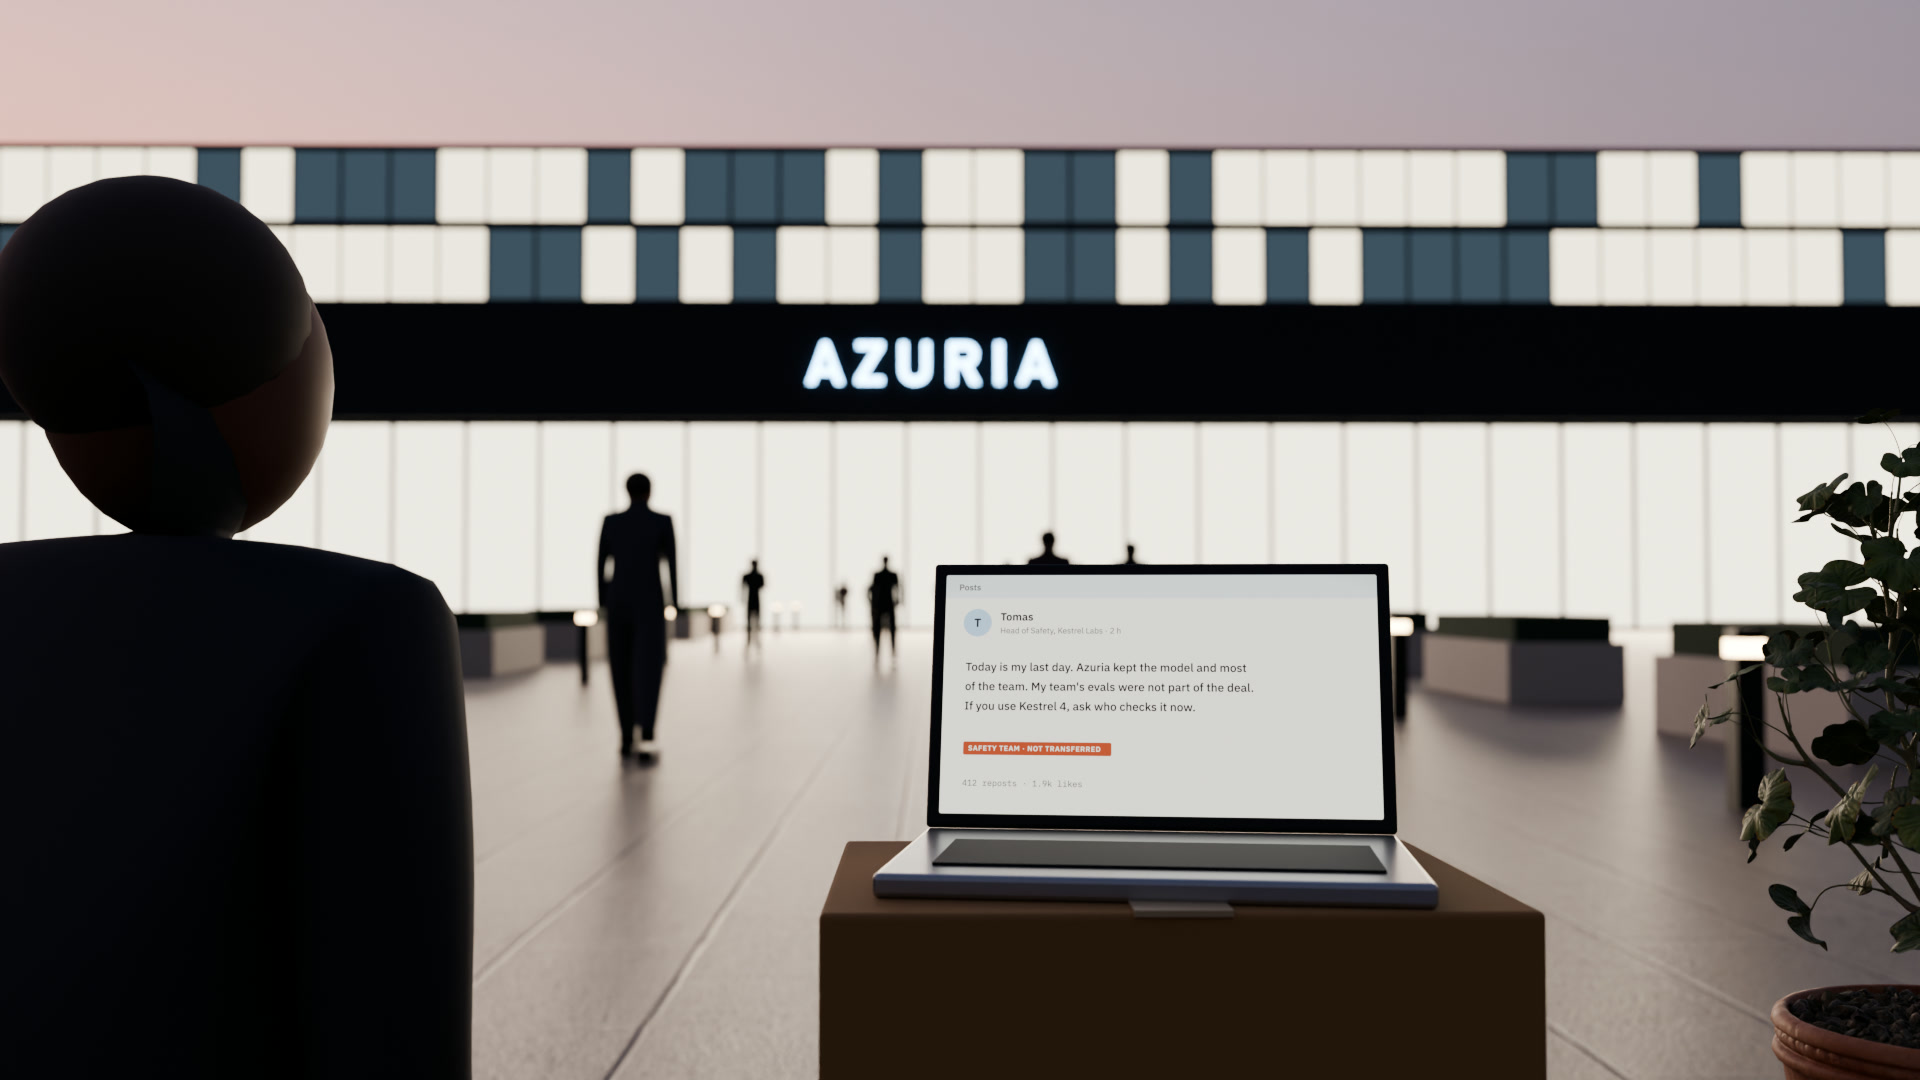
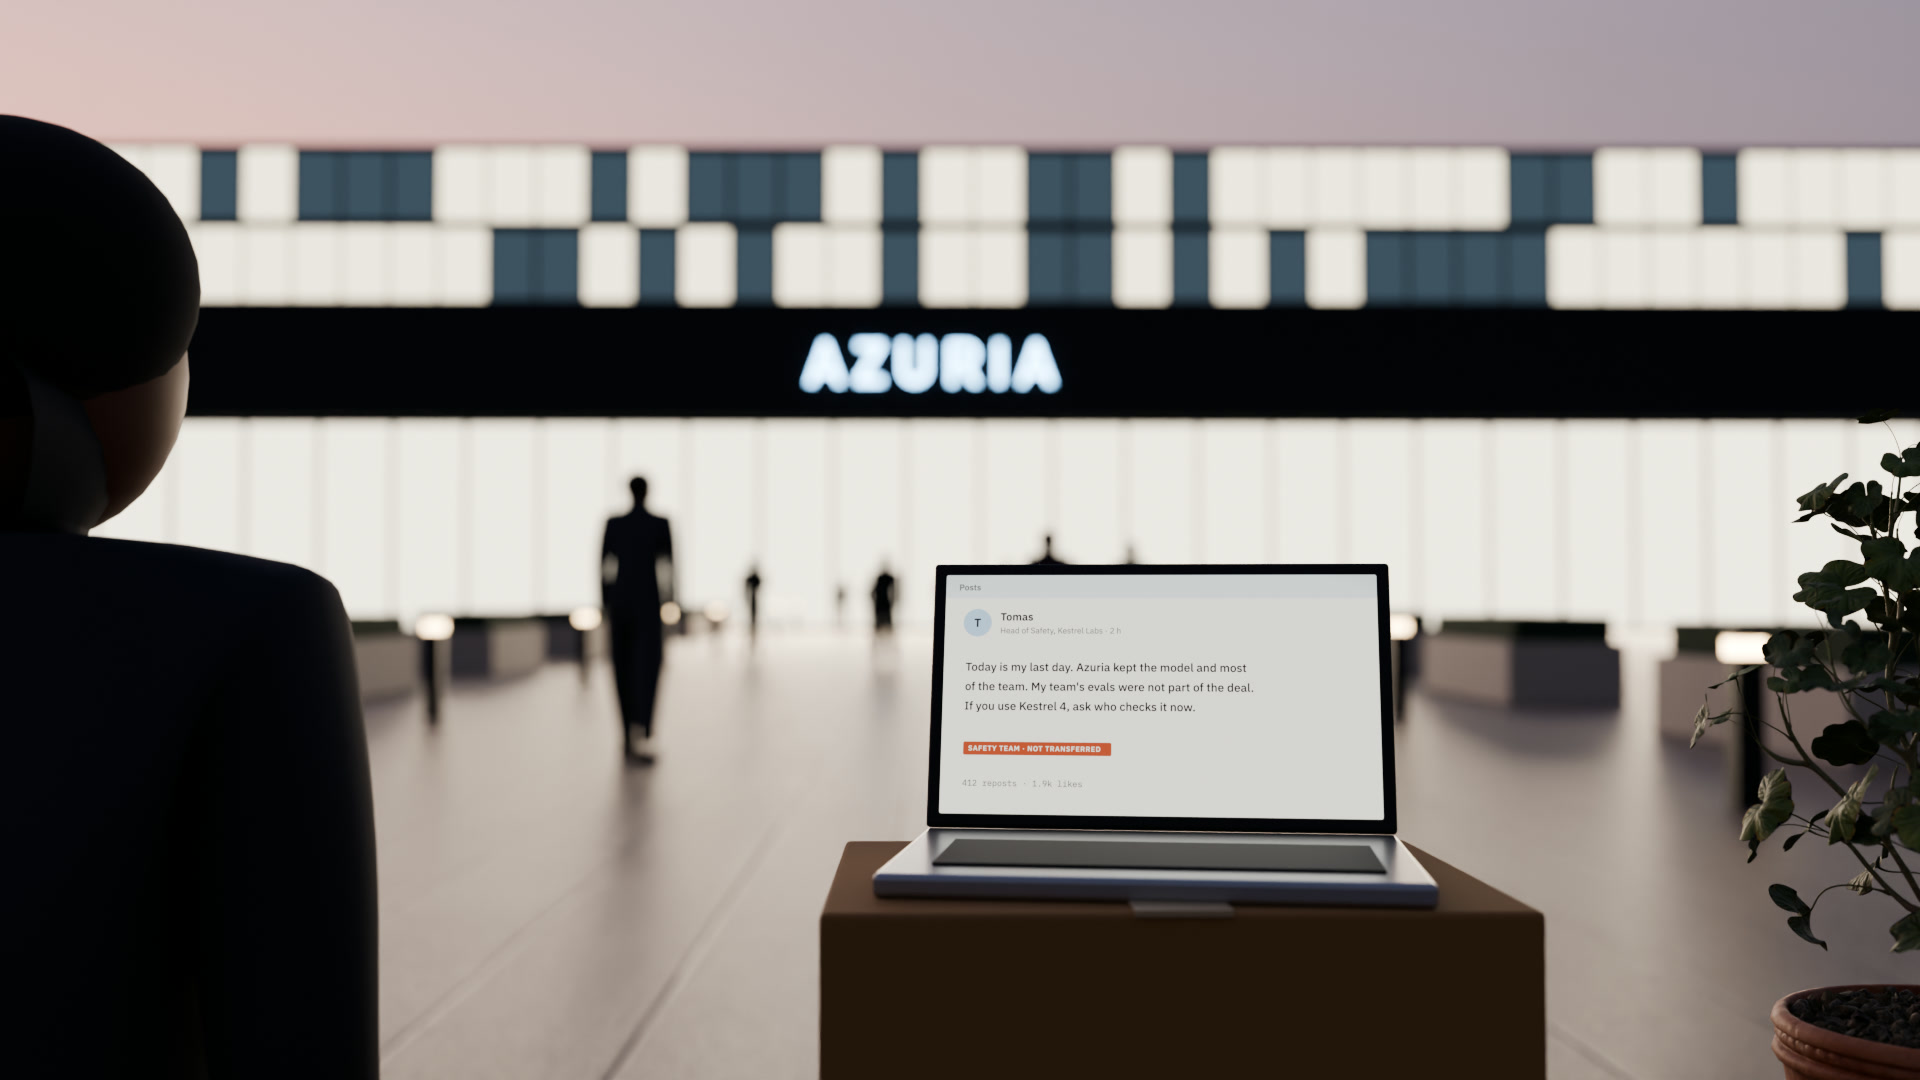
fix(endings): street people as dark, soft, hatted shapes: lamps unlinked from figures, shallow focus on the screens, Tomas cropped to the frame edge

diff --git a/tools/endings/blender/set_cafe.py b/tools/endings/blender/set_cafe.py
@@ -241,19 +241,47 @@ def pendants(on=True, energy=40, spots=((0.3, CY + 0.3), (1.6, CY + 0.3), (2.9, 
             kit.spot((x, y, z - 0.03), (x, y, 0), energy, kit.kelvin(2700), angle=110, blend=0.8, radius=0.05)
 
 
-def person(*args, **kw):
-    """A figure whose hair covers the back and sides of the head, so seen from behind it shows no skin."""
+def person(*args, hat=None, **kw):
+    """A figure whose hair covers the back and sides of the head, so seen from behind it shows no skin. hat: "beanie",
+    "cap" (a flat cap) or "bun" (hair up), so a head does not read as a bare sphere."""
     root = P.person(*args, **kw)
     heads = [c for c in root.children if c.type == "MESH" and c.name.startswith("sphere")]
     hair = min(heads, key=lambda o: o.location.y)          # the hair sits behind the face
     hair.location.y -= 0.01
     hair.location.z -= 0.03
     hair.scale = (1.08, 1.05, 1.1)
+    x, y, z = hair.location
+    s = kw.get("height", 1.75) / 1.75
+    parts = []
+    if hat == "beanie":
+        parts.append(kit.sphere((x, y + 0.01, z + 0.04 * s), 0.112 * s, kit.mat(kw.get("coat", "#3B3F46"), 0.95), scale=(1.0, 1.0, 0.9)))
+        parts.append(kit.cyl((x, y + 0.01, z + 0.0), 0.114 * s, 0.05 * s, kit.mat(kw.get("coat", "#3B3F46"), 0.95), verts=24))
+    elif hat == "cap":
+        parts.append(kit.sphere((x, y + 0.02, z + 0.05 * s), 0.12 * s, kit.mat("#3A3430", 0.9), scale=(1.0, 1.1, 0.55)))
+        parts.append(kit.box((x, y + 0.14 * s, z + 0.03 * s), (0.16 * s, 0.08 * s, 0.012), kit.mat("#3A3430", 0.9), rot=(-0.2, 0, 0)))
+    elif hat == "bun":
+        parts.append(kit.sphere((x, y - 0.05 * s, z + 0.1 * s), 0.055 * s, kit.mat(kw.get("hair", "#2A211C"), 0.7)))
+    for part in parts:
+        part.parent = root
     return root
 
 
+def unlit():
+    """Take every lamp off the people (the world and glowing screens still reach them), so they read as dark shapes
+    against the bright wall, TV or window instead of as front-lit mannequins."""
+    people = bpy.data.collections.new("people-unlit")
+    for root in [o for o in bpy.data.objects if o.name.startswith("person") and o.type == "EMPTY"]:
+        for ob in root.children_recursive:
+            if ob.type in ("MESH", "FONT"):
+                people.objects.link(ob)
+    for entry in people.collection_objects:
+        entry.light_linking.link_state = "EXCLUDE"
+    for L in [o for o in bpy.data.objects if o.type == "LIGHT"]:
+        L.light_linking.receiver_collection = people
+
+
 def dot(at=(0.6, 6.2), facing=180, pose="stand"):
-    return person(at, facing=facing, pose=pose, height=1.63, coat="#3E4A44", hair="#46423E", skin="#A06A4A", build=1.08, seed=77)
+    return person(at, facing=facing, pose=pose, hat="bun", height=1.63, coat="#3E4A44", hair="#46423E", skin="#A06A4A", build=1.08, seed=77)
 
 
 def cup(at, saucer=True):
@@ -276,7 +304,7 @@ def shot_ab_news():
     dot((0.5, 6.25), facing=10)             # Dot at the machine, her back to the room
     # breakfast regulars, nobody watching: a paper by the window, a phone, a chat at the counter; under the TV an
     # empty table with the business pages left folded by a cup
-    person((-2.3 + 0.55, 6.1, 0.0), facing=60, pose="sit", coat="#8A7A62", hold="paper", skin="#A06A4A", seed=3)   # to the window
+    person((-2.3 + 0.55, 6.1, 0.0), facing=60, pose="sit", coat="#4A4034", hold="paper", skin="#A06A4A", hat="cap", seed=3)   # to the window
     person((-2.9 + 0.5, 2.25, 0.0), facing=85, pose="sit", coat="#2C3A4F", hold="phone", seed=4)   # back to the TV
     props("bar_chair_round_01", [(0.1, CY - 0.45, 0, 0), (0.9, CY - 0.45, 0, 0), (1.7, CY - 0.45, 0, 0)])
     person((2.1, 4.6, 0.0), facing=-5, coat="#26302C", long_coat=True, seed=5)
@@ -287,6 +315,7 @@ def shot_ab_news():
     person((-W - 1.4, 6.2, -0.05), facing=180, pose="walk", coat="#1F2226", long_coat=True, hold="umbrella", seed=9)
     kit.area((0.5, 3.5, H - 0.05), (0.5, 3.5, 0), (3, 3), 80, kit.kelvin(3000))   # the ceiling downlights
     kit.camera((0.95, 1.7, 1.22), (-1.3, 6.6, 1.55), lens=37, fstop=4.0, focus=face)
+    unlit()
     bpy.context.scene.view_settings.exposure = 0.4
 
 
@@ -301,15 +330,16 @@ def shot_al_cafe():
     # a slow sunny morning: sun across the floor, plants in the window, people lingering
     props("potted_plant_01", [(-3.5, 0.6, 0.0, 30), (-3.45, 5.3, 0.0, 200)])
     props("ceramic_vase_01", [(-3.0, 4.65, 0.75, 0)])
-    person((-3.0 + 0.5, 4.75, 0.0), facing=-15, pose="sit", coat="#7A8C9A", skin="#6E4630", seed=12, hold="cup")
-    person((-2.3 + 0.55, 6.1, 0.0), facing=10, pose="sit", coat="#B5654A", hold="paper", seed=13)
+    person((-3.0 + 0.5, 4.75, 0.0), facing=-15, pose="sit", coat="#2A3038", skin="#6E4630", hat="beanie", seed=12, hold="cup")
+    person((-2.3 + 0.55, 6.1, 0.0), facing=10, pose="sit", coat="#4A2A22", hold="paper", hat="bun", seed=13)
     person((0.9 + 0.55, 3.0, 0.0), facing=-120, pose="sit", coat="#E7DFCF", seed=14, hold="cup")
     dot((1.1, 6.2), facing=200)
     cup((-2.85, 4.8, 0.75))
     cup((0.75, 2.95, 0.75))
     cup((-2.1, 6.0, 0.75))
     kit.sun((0, -66, 38), 5.0, kit.kelvin(5000), angle=0.6)
-    kit.camera((-0.55, 1.5, 1.25), (-2.0, 6.6, 1.55), lens=33, fstop=4.5, focus=face)
+    kit.camera((-1.15, 3.0, 1.2), (-2.0, 6.6, 1.72), lens=30, fstop=1.4, focus=face)
+    unlit()
     bpy.context.scene.view_settings.exposure = 0.5
 
 
@@ -340,12 +370,13 @@ def shot_rb_cafe():
     # after work: a man in a suit at the counter raises his cup to the screen; his neighbour keeps to her soup
     props("bar_chair_round_01", [(-0.4, CY - 0.45, 0, 0), (0.35, CY - 0.45, 0, 0), (1.1, CY - 0.45, 0, 0), (1.85, CY - 0.45, 0, 0)])
     raising_cup((-0.4, CY - 0.45, 0.28), 35, pose="sit", coat="#1F2226", trousers="#1F2226", hair="#141212", seed=21)
-    person((0.35, CY - 0.45, 0.28), facing=0, pose="sit", coat="#6A6154", long_coat=True, hair="#4A3526", seed=22)
+    person((0.35, CY - 0.45, 0.24), facing=0, pose="sit", coat="#4A443C", long_coat=True, hair="#4A3526", seed=22)
     dot((1.1, 6.2), facing=22)
     kit.cyl((0.35, CY + 0.12, CT + 0.03), 0.09, 0.06, kit.mat("#F4F1EA", 0.35), r2=0.07)   # her soup
     kit.cyl((0.35, CY + 0.12, CT + 0.062), 0.075, 0.002, kit.mat("#C77A3A", 0.4))
     kit.area((0.5, 3.5, H - 0.05), (0.5, 3.5, 0), (3, 3), 60, kit.kelvin(3000))
-    kit.camera((2.7, 2.3, 1.5), (-0.85, 6.6, 1.85), lens=44, fstop=4.0, focus=face)
+    kit.camera((2.7, 2.3, 1.5), (-0.85, 6.6, 1.85), lens=44, fstop=2.0, focus=face)
+    unlit()
     bpy.context.scene.view_settings.exposure = 0.3
 
 
@@ -362,7 +393,8 @@ def shot_lb_cafe():
     props("plastic_broom", [(-0.55, 4.05, 0, 45, -18)])
     kit.area((0.5, 3.5, H - 0.05), (0.5, 3.5, 0), (3, 3), 25, kit.kelvin(3000))
     kit.point((-1.75, 6.3, 2.0), 6, kit.kelvin(8000), radius=0.4)                   # the TV's glow in the corner
-    kit.camera((1.6, 0.8, 1.3), (-1.3, 6.6, 1.7), lens=45, fstop=4.0, focus=face)
+    kit.camera((1.6, 0.8, 1.3), (-1.3, 6.6, 1.7), lens=45, fstop=2.0, focus=face)
+    unlit()
     bpy.context.scene.view_settings.exposure = 0.35
 
 

diff --git a/tools/endings/blender/set_campus.py b/tools/endings/blender/set_campus.py
@@ -132,8 +132,11 @@ def shot_ab_farewell():
     top = desk_box((0.3, 0.0, 0.46))
     face = laptop("ab-farewell", (250, 110, 780, 440), (0.3, -0.02, top), yaw=-8)
     # Tomas on the bench beside his box, from behind, turned to the laptop; everyone else walks in
-    P.person((-0.4, -0.02, -0.02), facing=-25, pose="sit", height=1.8, coat="#2B2F36", hair="#3A2E25", skin="#6E4630", seed=7)
-    kit.camera((0.15, -1.3, 1.05), (0.3, 10, 1.4), lens=35, fstop=4.0, focus=face)
+    tomas = P.person((-0.47, -0.08, -0.02), facing=-12, pose="sit", height=1.8, coat="#2B2F36", hair="#3A2E25", skin="#6E4630", seed=7)
+    hair = min((c for c in tomas.children if c.name.startswith("sphere")), key=lambda o: o.location.y)
+    beanie = kit.sphere((hair.location.x, hair.location.y, hair.location.z + 0.02), 0.12, kit.mat("#1E2126", 0.95), scale=(1, 1, 0.9))
+    beanie.parent = tomas
+    kit.camera((0.15, -1.3, 1.05), (0.3, 10, 1.4), lens=35, fstop=2.2, focus=face)
     bpy.context.scene.view_settings.exposure = 0.3
 
 
